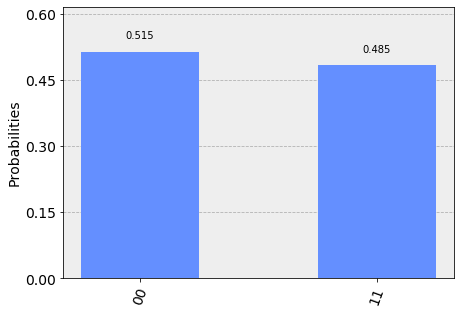
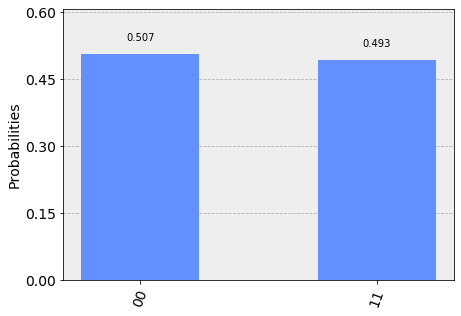
Automated documentation update from meta-qiskit
Commit: e150488c48937c449cbc0aaca2280832b83041b2

Travis build: https://travis-ci.com/Qiskit/qiskit/builds/132594360

diff --git a/documentation/getting_started.html b/documentation/getting_started.html
@@ -1362,7 +1362,7 @@ subsequent sections:</p>
 </pre></div>
 </div>
 <div class="highlight-default notranslate"><div class="highlight"><pre><span></span>
-<span class="n">Total</span> <span class="n">count</span> <span class="k">for</span> <span class="mi">00</span> <span class="ow">and</span> <span class="mi">11</span> <span class="n">are</span><span class="p">:</span> <span class="p">{</span><span class="s1">&#39;00&#39;</span><span class="p">:</span> <span class="mi">504</span><span class="p">,</span> <span class="s1">&#39;11&#39;</span><span class="p">:</span> <span class="mi">496</span><span class="p">}</span>
+<span class="n">Total</span> <span class="n">count</span> <span class="k">for</span> <span class="mi">00</span> <span class="ow">and</span> <span class="mi">11</span> <span class="n">are</span><span class="p">:</span> <span class="p">{</span><span class="s1">&#39;00&#39;</span><span class="p">:</span> <span class="mi">502</span><span class="p">,</span> <span class="s1">&#39;11&#39;</span><span class="p">:</span> <span class="mi">498</span><span class="p">}</span>
 </pre></div>
 </div>
 <pre style="word-wrap: normal;white-space: pre;background: #fff0;line-height: 1.1;font-family: &quot;Courier New&quot;,Courier,monospace">        ┌───┐     ┌─┐   
@@ -1508,7 +1508,7 @@ circuit will yield either the bit string 00 or 11.</p>
 </pre></div>
 </div>
 <div class="highlight-default notranslate"><div class="highlight"><pre><span></span>
-<span class="n">Total</span> <span class="n">count</span> <span class="k">for</span> <span class="mi">00</span> <span class="ow">and</span> <span class="mi">11</span> <span class="n">are</span><span class="p">:</span> <span class="p">{</span><span class="s1">&#39;00&#39;</span><span class="p">:</span> <span class="mi">516</span><span class="p">,</span> <span class="s1">&#39;11&#39;</span><span class="p">:</span> <span class="mi">484</span><span class="p">}</span>
+<span class="n">Total</span> <span class="n">count</span> <span class="k">for</span> <span class="mi">00</span> <span class="ow">and</span> <span class="mi">11</span> <span class="n">are</span><span class="p">:</span> <span class="p">{</span><span class="s1">&#39;00&#39;</span><span class="p">:</span> <span class="mi">488</span><span class="p">,</span> <span class="s1">&#39;11&#39;</span><span class="p">:</span> <span class="mi">512</span><span class="p">}</span>
 </pre></div>
 </div>
 </div>
